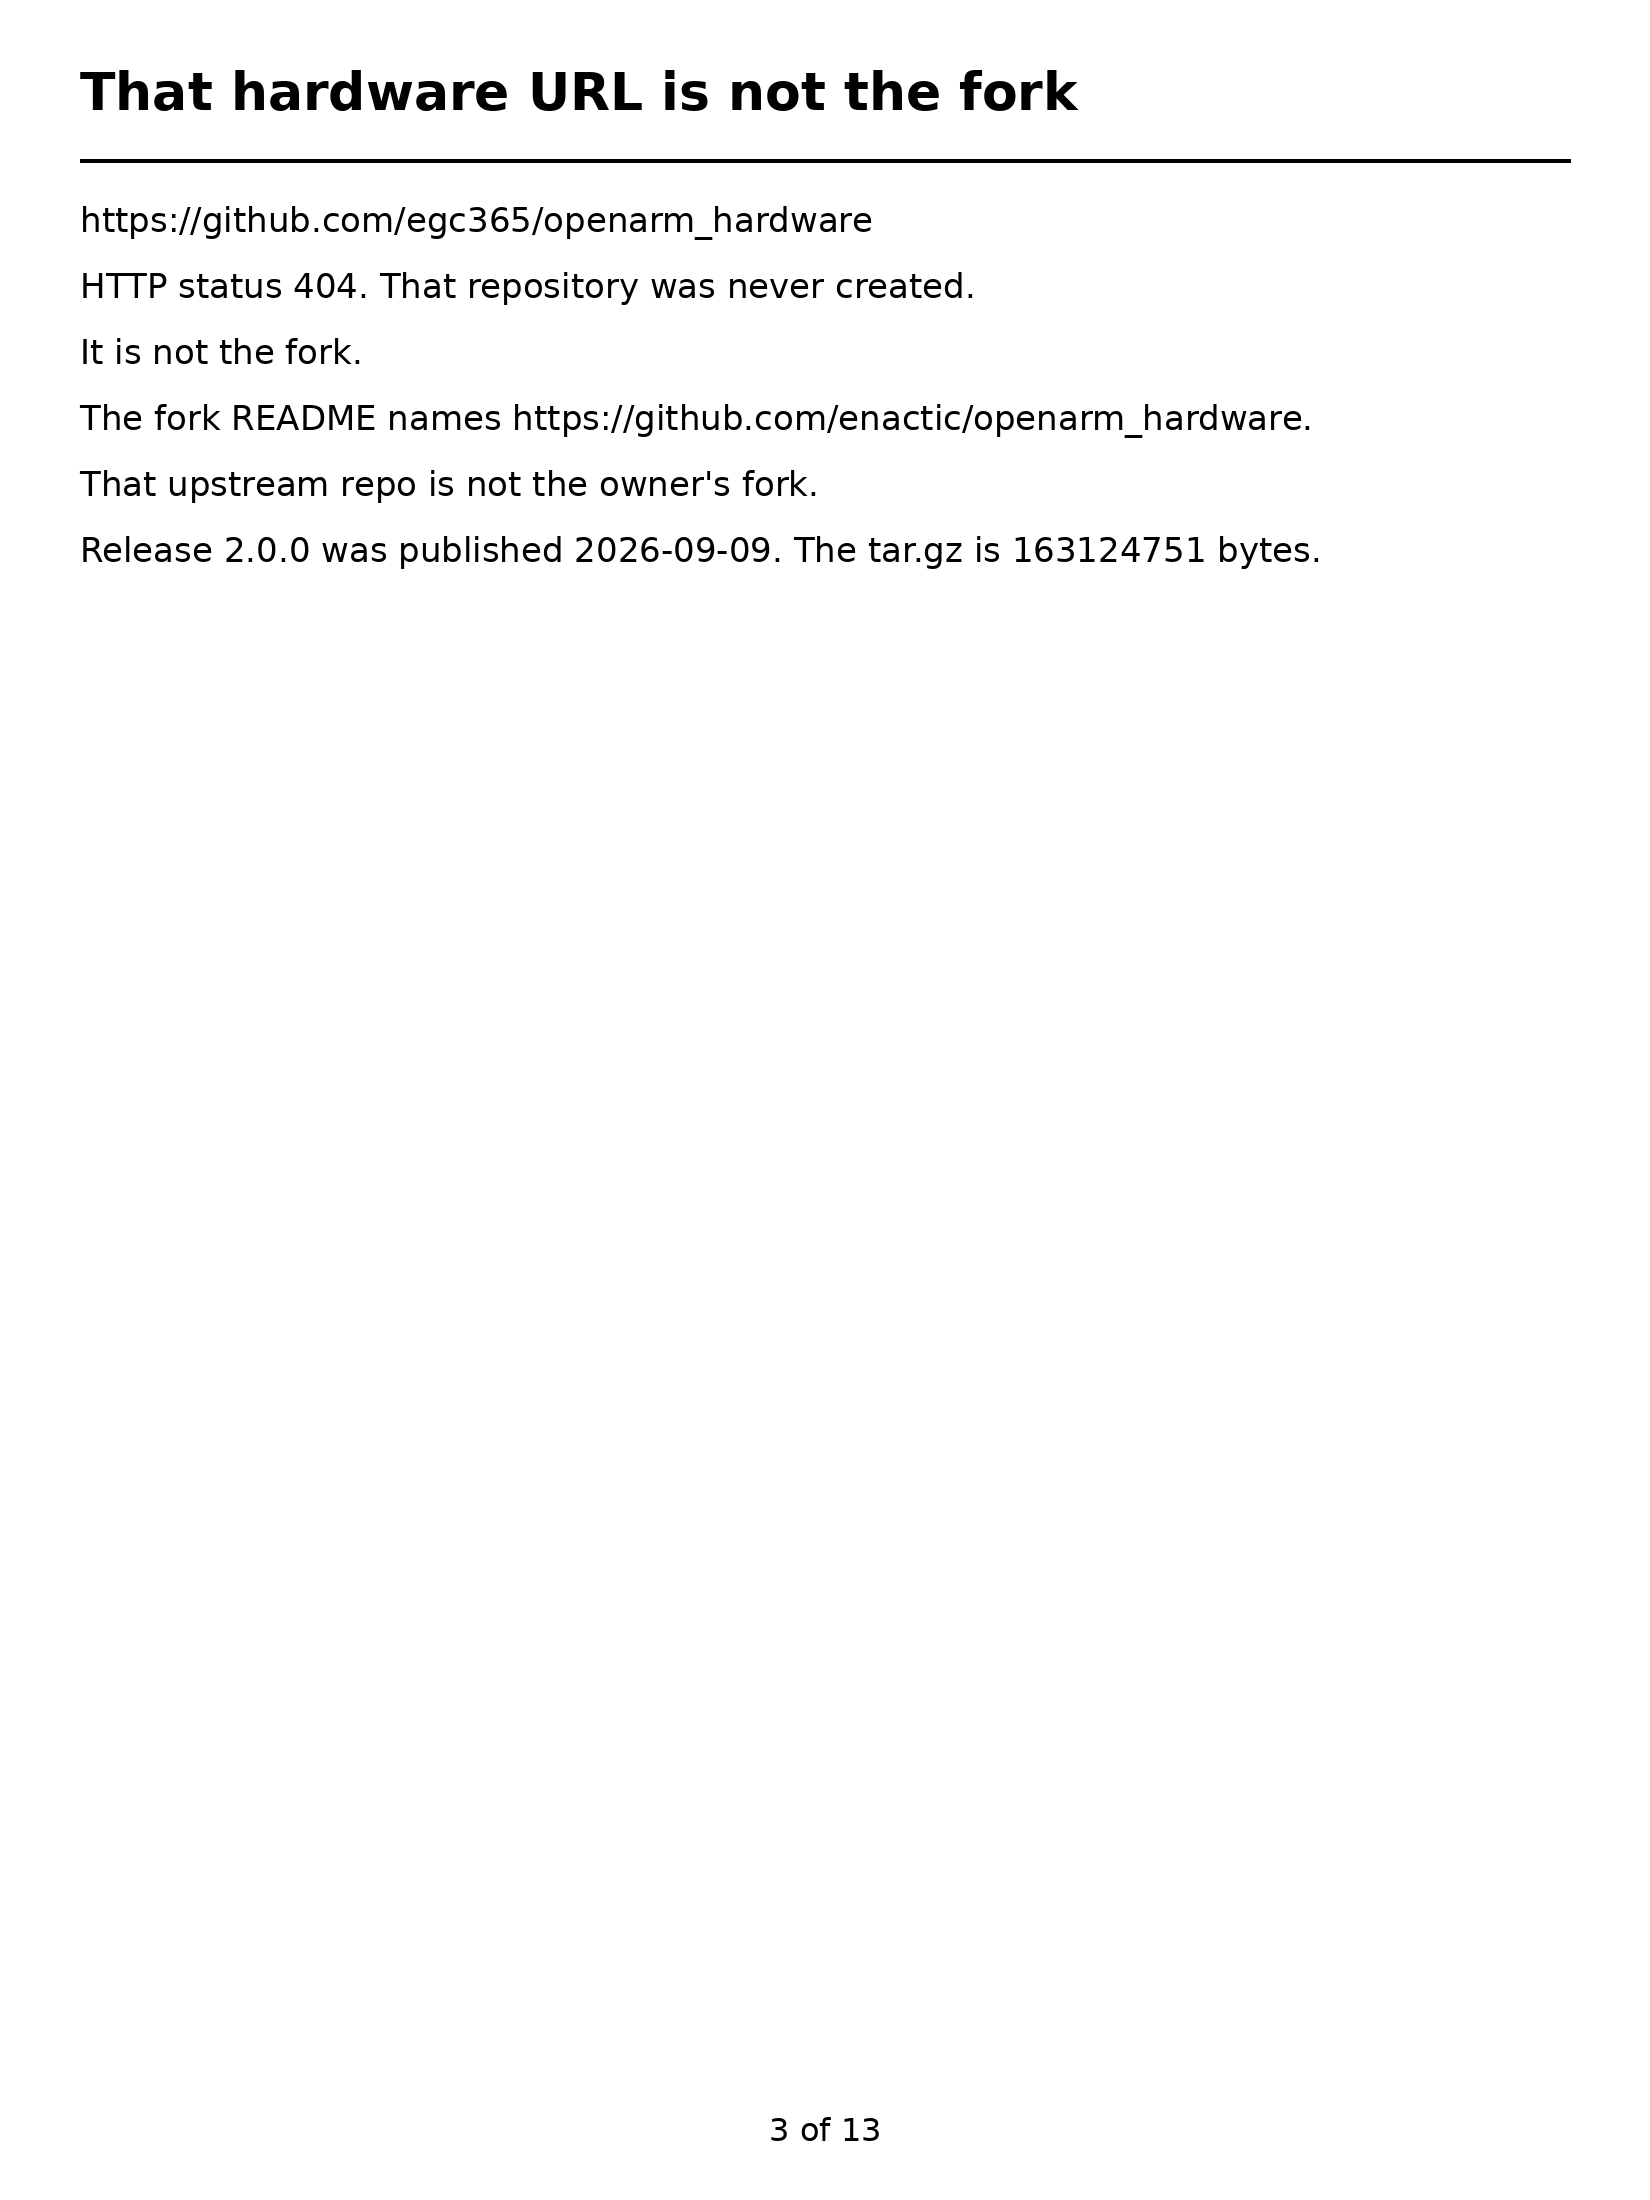
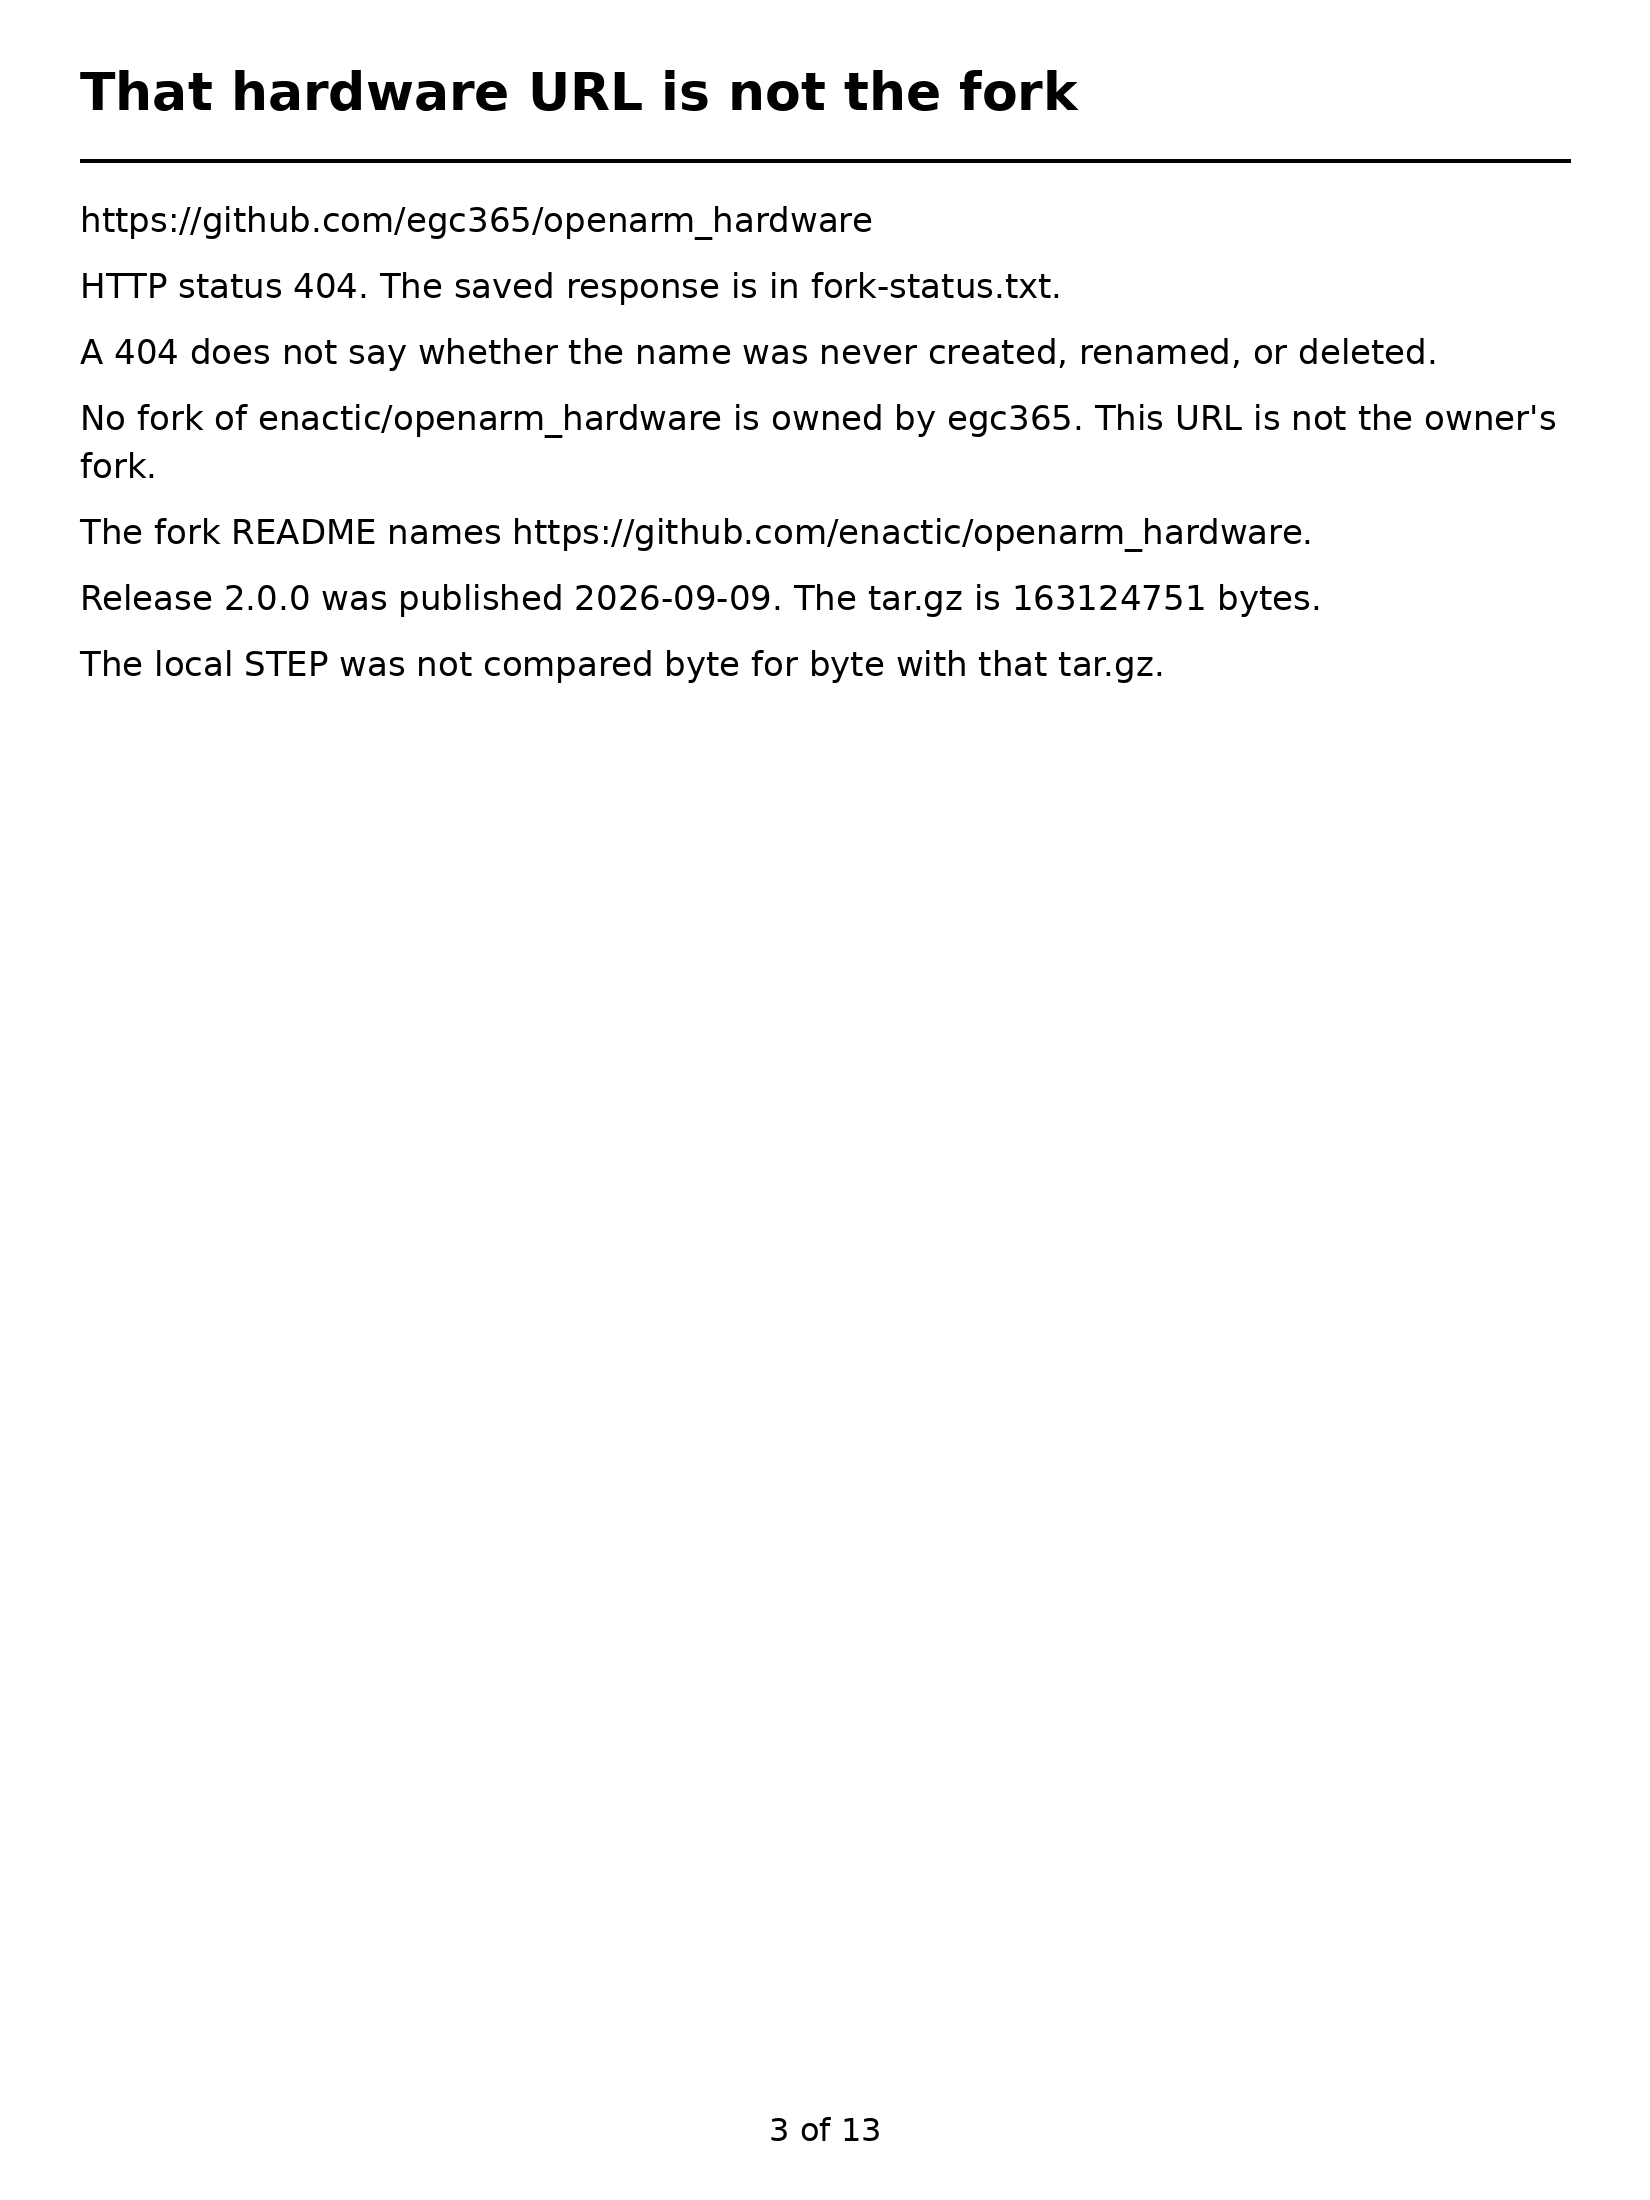
Correct the 404 claim and keep the STEP comparison open.
A 404 does not prove the hardware name was never created. The API output is saved. The local STEP was not compared with the release tar.gz.

Changed region(s): [[0.0309, 0.1236, 0.8655, 0.3091], [0.8655, 0.1855, 0.9273, 0.2164]]

diff --git a/robotics/github/openarm/openarm-source-record-20261008.md b/robotics/github/openarm/openarm-source-record-20261008.md
@@ -10,7 +10,7 @@ Compare `enactic:main...egc365:main` returned ahead 0, behind 10, status behind.
 
 The root listing is the website repo. The folders are `.claude`, `.github`, and `website`. The files are `.editorconfig`, `.gitignore`, `CODE_OF_CONDUCT.md`, `CONTRIBUTING.md`, `LICENSE`, and `README.md`. That root has no STEP tree and no STL tree.
 
-`https://github.com/egc365/openarm_hardware` is a 404. The GitHub API status is 404. That repository was never created. It is not the fork. The page title is `Page not found · GitHub · GitHub`.
+`https://github.com/egc365/openarm_hardware` returns HTTP 404. The saved API response is `fork-status.txt` in this folder. A 404 does not say whether the name was never created, renamed, or deleted. The forks list for `enactic/openarm_hardware` has no repository owned by `egc365`. This URL is not the owner's fork. The page title is `Page not found · GitHub · GitHub`.
 
 `https://github.com/enactic/openarm` is the parent of the fork. It is not the owner's fork.
 
@@ -25,7 +25,7 @@ These two files exist:
 - `/home/egc365/Documents/cannabis-sample-prep-cell/torso/build_openarm/openarm_orca.step`
 - `/home/egc365/Documents/cannabis-sample-prep-cell/torso/openarm-bom/OpenArm 2.0 BOM-BOＭ.csv`
 
[2 lines of base64/hex data omitted]
 
 ## Published OpenArm motors
 
@@ -67,7 +67,7 @@ The drawing on the page shows this assignment:
 - OpenArm 1.0: J6 is extension and flexion. J7 is radial and ulnar deviation.
 - OpenArm 2.0, both the Standard wrist and the Anvil wrist: J6 is radial and ulnar deviation. J7 is extension and flexion.
 
-The degree table is an image on the page. The markdown text does not print the numbers. The numbers below were read from the screenshots on 2026-10-08. The unit is degrees.
+The degree table is an image on the page. The markdown text does not print the numbers. The numbers below were read from the screenshots on 2026-10-08. The unit is degrees. The screenshot pages in this folder are `pictures/07-anvil-jerky-motion.png` through `pictures/13-anvil-cables.png`. The readable copy of the table is `pictures/05-anvil-range-table.png`. The reading of the table is `pictures/06-how-to-read-the-table.png`.
 
 | Joint | Anvil OpenARM 1.0 | Standard OpenARM 2.0 | Anvil OpenARM 2.0 |
 | --- | --- | --- | --- |

diff --git a/robotics/github/procedure-20261008/decisions.md b/robotics/github/procedure-20261008/decisions.md
@@ -6,11 +6,11 @@ The trail is `decisions.tsv` in this folder. One row is one decision.
 
 The owner's fork is `https://github.com/egc365/openarm`. Parent is `enactic/openarm`. Ahead 0. Behind 10. The root is the website. It has no STEP tree.
 
-`https://github.com/egc365/openarm_hardware` is a 404 because that repository was never created. It is not the fork.
+`https://github.com/egc365/openarm_hardware` returns HTTP 404. A 404 does not say whether the name was never created, renamed, or deleted. No fork of `enactic/openarm_hardware` is owned by `egc365`. The URL is not the owner's fork. The saved API lines are `openarm/fork-status.txt`.
 
 The Anvil page `https://docs.anvil.bot/introduction/openarm-2.0` is a vendor page. It is not the fork. The degree table is filed with three named columns. The Damiao motor table was not changed.
 
-The local STEP stays at its path and sha256. It was not put in git.
+The local STEP stays at its path and sha256. It was not put in git. Those bytes were not compared with the upstream release tar.gz.
 
 ## Recommendation
 
@@ -24,7 +24,7 @@ B. Fork `enactic/openarm_hardware` into the `egc365` account and date that fork.
 
 C. Pull the 10 commits onto `egc365/openarm`. Those commits do not add STEP files.
 
-D. Upload the 577954123 byte local STEP as a GitHub release asset. A release asset must be under 2 GiB. Do not put the STEP in git.
+D. Upload the 577954123 byte local STEP as a GitHub release asset. GitHub's release page says each release file must be under 2 GiB. The local STEP is under that limit. Do not put the STEP in git. This path was not done, and the local file was not compared with the upstream tar.gz.
 
 Four paths exist. Not three, and not five. B, C, and D were not done.
 
@@ -33,7 +33,7 @@ Four paths exist. Not three, and not five. B, C, and D were not done.
 A later reader can evaluate this session with four checks.
 
 1. The record names `egc365/openarm` as the fork of `enactic/openarm`.
-2. The record says `egc365/openarm_hardware` was never created.
+2. The record says `egc365/openarm_hardware` returns HTTP 404 and is not the owner's fork.
 3. The wrist table names the column for each degree.
 4. The STEP sha256 is on disk and the file is not in git.
 

diff --git a/robotics/github/procedure-20261008/logbook.md b/robotics/github/procedure-20261008/logbook.md
@@ -35,7 +35,7 @@ The hardware URL is still HTTP 404. That sentence was used as if the owner had n
 
 `egc365/openarm` is a fork. The API returned fork true and parent `enactic/openarm`. Compare returned ahead 0 and behind 10. The 10 commits do not add STEP files.
 
-`egc365/openarm_hardware` was never created. It is not the fork. `enactic/openarm_hardware` release 2.0.0 remains upstream CAD. It is not the owner's fork.
+`egc365/openarm_hardware` returns HTTP 404. A 404 does not say whether the name was never created, renamed, or deleted. No fork of `enactic/openarm_hardware` is owned by `egc365`. The URL is not the owner's fork. `enactic/openarm_hardware` release 2.0.0 remains upstream CAD. It is not the owner's fork. The local STEP was not compared byte for byte with that release tar.gz.
 
 The Anvil wrist page was filed from the screenshots and from the markdown twin. Anvil is not the fork. The Damiao motor table was not changed.
 

diff --git a/robotics/github/procedure-20261008/references.md b/robotics/github/procedure-20261008/references.md
@@ -14,6 +14,8 @@ American Society for Quality. (n.d.-b). *Six Sigma*. https://asq.org/quality-res
 
 GitHub. (n.d.). *About releases*. GitHub Docs. https://docs.github.com/en/repositories/releasing-projects-on-github/about-releases
 
+The same page was opened again on 2026-10-08. It says each file included in a release must be under 2 GiB. That sentence is the limit used for path D. The local STEP is 577954123 bytes, which is under 2 GiB. The file was not uploaded.
+
 Pololu Corporation. (2024, April 3). *Micro metal gearmotors with carbon brushes (HPCB), no encoder* [Drawing 0J949]. https://www.pololu.com/file/0j949/micro-metal-gearmotor-dimensions.pdf
 
 CaptainObvious. (2019, December 8). *N20 geared motor continuous rotation servo with AS5600 magnetic sensor*. Thingiverse. https://www.thingiverse.com/thing:4030416

diff --git a/robotics/github/openarm/process.md b/robotics/github/openarm/process.md
@@ -1,5 +1,5 @@
 The owner's fork is https://github.com/egc365/openarm. Parent is enactic/openarm. Ahead 0. Behind 10.
-https://github.com/egc365/openarm_hardware is a 404 because that repository was never created. It is not the fork.
+https://github.com/egc365/openarm_hardware returns HTTP 404. It is not the fork. A 404 does not say whether the name was never created, renamed, or deleted.
 The local STEP is hashed and was not uploaded.
 Motors stay the published Damiao list. The Anvil wrist table is a vendor page and is not a motor list.
 The tiny printed-servo repository name stays unknown in the OpenArm record.

diff --git a/robotics/github/README.md b/robotics/github/README.md
@@ -3,7 +3,7 @@
 Git branch: `robotics-github-20261008`
 Repository: https://github.com/egc365/openarm
 That repository is the owner's fork. Parent is enactic/openarm. Ahead 0. Behind 10.
-https://github.com/egc365/openarm_hardware was never created. That 404 is not the fork.
+https://github.com/egc365/openarm_hardware returns HTTP 404. That URL is not the fork. A 404 does not say whether the name was never created, renamed, or deleted.
 No pull request.
 
 Each design has one folder. Each build report has one picture per page, on a white page.
